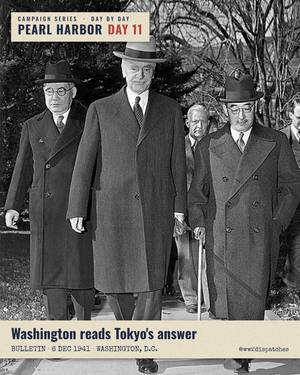
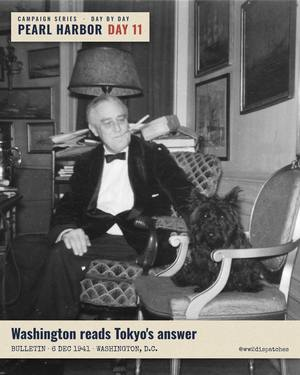
Chronicle Part 1 final; doc updated
Claude-Session: https://claude.ai/code/session_01GNhz9ryDEhyVPfJv2sWR1J

diff --git a/site/campaign-series/pearl-harbor-1941/part-01.html b/site/campaign-series/pearl-harbor-1941/part-01.html
@@ -23,7 +23,6 @@
 <link rel="preconnect" href="https://fonts.gstatic.com" crossorigin>
 <link rel="stylesheet" href="https://fonts.googleapis.com/css2?family=Oswald:wght@400;500;600;700&family=Special+Elite&family=Source+Sans+3:wght@400;600&family=Libre+Baskerville:ital,wght@0,400;0,700;1,400&display=swap">
 <link rel="stylesheet" href="/site.css?v=120f5eea">
-<meta name="robots" content="noindex">
 <script type="application/ld+json">{"@context":"https://schema.org","@graph":[{"@type":"Article","@id":"https://ww2dispatches.com/campaign-series/pearl-harbor-1941/part-01#article","headline":"Pearl Harbor, Part 1: The Fleet Slips Away","alternativeHeadline":"Campaign Series: Pearl Harbor · The Chronicle","description":"26 to 29 November 1941. Six carriers vanish into the North Pacific while Washington warns of war everywhere but Hawaii, and in Tokyo the last voices for peace are heard and set aside.","image":"https://ww2dispatches.com/campaign-series/pearl-harbor-1941/parts/part-01.jpg","datePublished":"2026-11-30T16:00:00Z","author":{"@id":"https://ww2dispatches.com/#org"},"publisher":{"@id":"https://ww2dispatches.com/#org"},"inLanguage":"en","isPartOf":{"@id":"https://ww2dispatches.com/campaign-series/pearl-harbor-1941/#series"},"url":"https://ww2dispatches.com/campaign-series/pearl-harbor-1941/part-01","about":{"@type":"Event","name":"Pearl Harbor","startDate":"1941-11-26","endDate":"1941-11-29"}},{"@type":"BreadcrumbList","itemListElement":[{"@type":"ListItem","position":1,"name":"Campaign Series","item":"https://ww2dispatches.com/campaign-series/"},{"@type":"ListItem","position":2,"name":"Pearl Harbor","item":"https://ww2dispatches.com/campaign-series/pearl-harbor-1941/"},{"@type":"ListItem","position":3,"name":"Part 1","item":"https://ww2dispatches.com/campaign-series/pearl-harbor-1941/part-01"}]}]}</script>
 </head>
 <body>
@@ -34,7 +33,7 @@
 <!--/chrome:header-->
 <main class="chapter">
   <div class="vb-top"><a class="backlink" href="/campaign-series/pearl-harbor-1941/"><svg viewBox="0 0 24 24" aria-hidden="true"><path d="M15 5l-7 7 7 7"/></svg> Pearl Harbor</a><span class="meta">The Chronicle · Part 1 of 3</span></div>
-  <figure class="ch-cover"><img src="/campaign-series/pearl-harbor-1941/parts/part-01.jpg" alt="Zuikaku at Hitokappu Bay, November 1941, before the sortie. Japanese photo, public domain (Wikimedia Commons)." style="object-position:50% 50%"></figure>
+  <figure class="ch-cover"><img src="/campaign-series/pearl-harbor-1941/parts/part-01.jpg" alt="Track of the Carrier Task Force for the Pearl Harbor attack, 26 November to 23 December 1941, drawn from Japanese records. Reports of General MacArthur, Vol. II, Part I, Plate No. 13, U.S. Army, public domain." style="object-position:50% 30%"></figure>
   <header class="ch-head">
     <p class="ch-k">Campaign Series: Pearl Harbor · The Chronicle · <b>Part 1 of 3</b></p>
     <h1>The Fleet Slips Away</h1>
@@ -44,8 +43,10 @@
   <article class="ch-paper">
     <div class="ch-open"><p>On the morning of 26 November 1941, the most powerful carrier force in the world weighed anchor in a fogbound bay at the top of Japan and steamed east, into an ocean almost no ship ever crossed. Eleven days later its aircraft would be over Oahu. In between, the men who might have stopped it read the warnings, argued over them, and looked the wrong way.</p>
 <p>This is the first of three parts on the road to Pearl Harbor. Our daily posts followed it one morning at a time, as the people living it saw it. Here we can do what they could not: lay the days side by side and see what was coming.</p>
-<figure><img src="https://cdn.jsdelivr.net/gh/ww2dispatches/ww2dispatches-cards@main/photos/campaign/ph-map-route.jpg?v=fa3dc8da" alt="The strike force&#x27;s track, 26 November to 23 December 1941, from a postwar U.S. Army map. The fleet ran east along the empty northern route, turned south on 4 December, and launched its aircraft north " width="753" height="526" loading="lazy"><figcaption>The strike force&#x27;s track, 26 November to 23 December 1941, from a postwar U.S. Army map. The fleet ran east along the empty northern route, turned south on 4 December, and launched its aircraft north of Oahu on the morning of 7 December, Hawaii time. Times on the map are Tokyo time. U.S. Army, Reports of General MacArthur (1966), public domain.</figcaption></figure></div>
+<figure><img src="https://cdn.jsdelivr.net/gh/ww2dispatches/ww2dispatches-cards@main/photos/campaign/ch-genmac-plate12-pacific.jpg?v=0074e806" alt="Japanese dispositions on the eve of war, the central Pacific, drawn after the war from Japanese records. The carrier task force comes down out of the empty north onto Oahu, where a ring of submarines," width="877" height="1007" loading="lazy"><figcaption>Japanese dispositions on the eve of war, the central Pacific, drawn after the war from Japanese records. The carrier task force comes down out of the empty north onto Oahu, where a ring of submarines, the advance force, waits off the coast. Detail of Plate No. 12, Reports of General MacArthur, Vol. II, Part I (U.S. Army, 1966), public domain.</figcaption></figure></div>
     <section class="ch-sec" id="day-01"><h2>The Sortie</h2><p class="dateline">Hitokappu Bay, Kuril Islands, 26 November 1941</p><div class="ch-slip"><details class="slip"><summary><img src="/campaign-series/pearl-harbor-1941/thumbs/day-01.jpg" alt="" width="30" height="38" loading="lazy"><span class="tt"><b>Day by Day</b> · Day 1 of 13<br>6:30 a.m. MT, 26 Nov 2026</span><svg class="chev" viewBox="0 0 24 24" aria-hidden="true"><path d="M6 9l6 6 6-6"/></svg></summary><div class="slipbody"><p class="sliph">Six carriers slip out of the Kurils</p><p>Six aircraft carriers weigh anchor in a remote bay at the top of Japan this morning. Not one of them will send a radio signal until the job is done.</p><p>Akagi, Kaga, Soryu, Hiryu, Shokaku and Zuikaku leave Hitokappu Bay in the Kuril Islands under Vice Admiral Chuichi Nagumo, with battleships, cruisers and destroyers around them. Their course is east, into the empty North Pacific.</p><p>Half a world away in Washington, Secretary of State Cordell Hull hands Japan&#x27;s envoys the American terms. Among them: Japan must pull its forces out of China and Indochina.</p><p class="sliplinks"><a href="/campaign-series/pearl-harbor-1941/day-01?from=chapter">Open the day page</a></p></div></details></div><div class="ch-body"><p>At six in the morning, Tokyo time, Vice Admiral Chuichi Nagumo&#x27;s First Air Fleet left Hitokappu Bay on Etorofu, in the Kuril Islands. Six carriers led it: Akagi, Kaga, Soryu, Hiryu, Shokaku and Zuikaku, together carrying more than 400 aircraft. Two battleships, cruisers and destroyers screened them, and a train of tankers followed, because the route ahead had no friendly port.</p>
+<p>Commander Mitsuo Fuchida, who would lead the air attack, rode in Akagi. Questioned by American officers in Tokyo after the surrender, he remembered the departure and the formation in a few plain words.</p>
+<blockquote><p><strong>In their words.</strong> Captain Mitsuo Fuchida, air group commander of Akagi, interrogated in Tokyo, 10 October 1945</p><p>&quot;We left on the 26th of November from CHISHIMA. ... The carriers were in two columns of three with 10 kilometers between ships. There were about four cruisers, two battleships, and about 17 destroyers screening outside the entire formation.&quot;</p><p class="q-src">U.S. Strategic Bombing Survey, Interrogation Nav No. 29 (Chishima is the Japanese name for the Kurils)</p></blockquote>
 <p>The route was chosen for its emptiness. The North Pacific in late autumn is cold, rough and nearly free of merchant shipping, so the chance of being seen was small. The fleet kept radio silence the whole way, while stations at home kept up their normal traffic so that American listeners would hear nothing unusual.</p>
 <p>What almost no one outside the fleet knew was that it could still be called back. Nagumo&#x27;s orders said that if the talks in Washington succeeded, he was to turn around.</p>
 <p>A day later, on the afternoon of 26 November in Washington, Secretary of State Cordell Hull handed Ambassador Kichisaburo Nomura and special envoy Saburo Kurusu the American proposal now known as the Hull note. It asked Japan to withdraw its forces from China and Indochina. In Tokyo it was read as an ultimatum. Foreign Minister Shigenori Togo, who had argued for more time, later wrote that it left him in despair. Hull himself told Secretary of War Henry Stimson the next morning that he was finished with diplomacy:</p>
@@ -54,6 +55,8 @@
 <blockquote><p><strong>Primary document.</strong> Chief of Naval Operations to the Pacific and Asiatic Fleets, 27 November 1941</p><p>&quot;This despatch is to be considered a war warning. Negotiations with Japan looking toward stabilization of conditions in the Pacific have ceased and an aggressive move by Japan is expected within the next few days.&quot;</p></blockquote>
 <p>The message went on to say where that move was expected: the Philippines, the Kra Peninsula of Thailand, or possibly Borneo. It ordered a defensive deployment. It did not mention Hawaii.</p>
 <p>Admiral Husband Kimmel read it in that light. The danger, as Washington described it, lay thousands of miles to the west. The Army&#x27;s warning to Lieutenant General Walter Short the same day said hostile action was possible at any moment, but also told him not to alarm the civilian population or disclose his intent. Short put his command on alert against sabotage and parked his aircraft close together, where they were easy to guard.</p>
+<p>Both men later defended that reading under oath. Stark told Congress he had named the places where the best intelligence said the blow would fall, and that while an attack on Hawaii was thought possible, everything pointed to the Philippines, Guam and the Kra Peninsula. Kimmel testified that no reasonable officer in his place would have read the warning as a sign of an air attack on Pearl Harbor. The same Army map shows why both could believe it. In the west, Japan&#x27;s invasion forces really were gathering against Malaya, Thailand and the Philippines, exactly where the warning said. The arrow that mattered most was the one no one in Washington had drawn.</p>
+<figure><img src="https://cdn.jsdelivr.net/gh/ww2dispatches/ww2dispatches-cards@main/photos/campaign/ch-genmac-plate12-asia.jpg?v=cb9ab5cf" alt="The same map, western half: the invasion forces poised against Malaya, Thailand, the Philippines and Borneo, the moves the war warning named. Detail of Plate No. 12, Reports of General MacArthur, Vol." width="825" height="879" loading="lazy"><figcaption>The same map, western half: the invasion forces poised against Malaya, Thailand, the Philippines and Borneo, the moves the war warning named. Detail of Plate No. 12, Reports of General MacArthur, Vol. II, Part I (U.S. Army, 1966), public domain.</figcaption></figure>
 <p>By then the strike force was two days out from the Kurils, on a course no American ship or patrol plane would cross.</p>
 <figure><img src="https://cdn.jsdelivr.net/gh/ww2dispatches/ww2dispatches-cards@main/photos/campaign/ph-02.jpg?v=f165107a" alt="Admiral Harold R. Stark, Chief of Naval Operations, who signed the war warning. U.S. Navy photo, NHHC NH 49967, public domain." width="1280" height="1600" loading="lazy"><figcaption>Admiral Harold R. Stark, Chief of Naval Operations, who signed the war warning. U.S. Navy photo, NHHC NH 49967, public domain.</figcaption></figure></div></section><section class="ch-sec" id="day-03"><h2>Under War Conditions</h2><p class="dateline">Pearl Harbor, 28 November 1941</p><div class="ch-slip"><details class="slip"><summary><img src="/campaign-series/pearl-harbor-1941/thumbs/day-03.jpg" alt="" width="30" height="38" loading="lazy"><span class="tt"><b>Day by Day</b> · Day 3 of 13<br>6:30 a.m. MT, 28 Nov 2026</span><svg class="chev" viewBox="0 0 24 24" aria-hidden="true"><path d="M6 9l6 6 6-6"/></svg></summary><div class="slipbody"><p class="sliph">Enterprise sails under war conditions</p><p>A dozen Marine fighter pilots take off from Ewa this morning thinking it is a training flight. Within hours they are aboard the carrier Enterprise, and Hawaii is falling behind them.</p><p>Admiral William Halsey&#x27;s task force sails from Pearl Harbor to carry the Wildcats of squadron VMF 211 to Wake Island, nearly 2,500 miles west. Once clear of land, the captain issues Battle Order No. 1: &quot;The Enterprise is now operating under war conditions.&quot;</p><p>It closes with one plain line: &quot;Steady nerves and stout hearts are needed now.&quot;</p><p class="sliplinks"><a href="/campaign-series/pearl-harbor-1941/day-03?from=chapter">Open the day page</a></p></div></details></div><div class="ch-body"><p>Not every commander in Hawaii read the warning as a problem for somebody else. Vice Admiral William Halsey took the carrier Enterprise to sea that morning on what the Marine pilots aboard had been told was a training flight. Their real job was to ferry the twelve Wildcat fighters of squadron VMF 211 to Wake Island, a coral atoll nearly 2,500 miles to the west.</p>
 <p>Halsey had asked Kimmel how far he could go if he met Japanese ships. Use your common sense, Kimmel told him. Halsey took that as permission to shoot first. Once the task force was clear of Oahu, the carrier&#x27;s captain, George Murray, put it in writing for every man aboard.</p>
@@ -68,7 +71,7 @@
 <p><em>Next: Part 2, 30 November to 3 December 1941.</em> A prince warns his brother the Emperor that the navy has doubts, Tokyo makes its final decision for war, and a coded signal tells the fleet to climb Mount Niitaka. Part 2 arrives Friday, 4 December.</p>
 <nav class="ch-nav" aria-label="Chapters"><a class="btn ink" href="/campaign-series/pearl-harbor-1941/">Contents</a><span class="btn shut" aria-disabled="true">Part 2 · In preparation</span></nav>
 <h3>Sources</h3>
-<ul><li>Track of the carrier task force: U.S. Army, <em>Reports of General MacArthur</em> (1966), via Wikimedia Commons.</li><li>The war warning: Chief of Naval Operations dispatch 272337, 27 November 1941, Pearl Harbor Attack hearings exhibits (ibiblio.org/pha).</li><li>Hull&#x27;s words to Stimson: Report of the Army Pearl Harbor Board (1944), quoting Stimson&#x27;s diary (ibiblio.org/pha).</li><li>Battle Order No. 1 and Halsey&#x27;s sailing: William F. Halsey and J. Bryan III, <em>Admiral Halsey&#x27;s Story</em> (1947); Pacific Wrecks, 28 November 1941.</li><li>The senior statesmen&#x27;s meeting: Pearl Harbor Attack hearings, appendix on the Japanese decision for war (ibiblio.org/pha).</li><li>The sortie from Hitokappu Bay: Pacific Wrecks, 26 November 1941.</li></ul><p class="ch-credit">Cover: Zuikaku at Hitokappu Bay, November 1941, before the sortie. Japanese photo, public domain (Wikimedia Commons).</p></div>
+<ul><li>Maps: U.S. Army, <em>Reports of General MacArthur</em>, Vol. II, Part I, <em>Japanese Operations in the Southwest Pacific Area</em> (1966), Plate No. 12 (dispositions before the outbreak of war) and Plate No. 13 (track of the carrier task force, on the cover).</li><li>Fuchida&#x27;s account: U.S. Strategic Bombing Survey, <em>Interrogations of Japanese Officials</em>, Nav No. 29, USSBS No. 113, Tokyo, 10 October 1945 (ibiblio.org/hyperwar).</li><li>Stark&#x27;s and Kimmel&#x27;s later explanations: Pearl Harbor Attack hearings, Navy narrative, &quot;The War Warning of November 27th&quot; (ibiblio.org/pha); Kimmel&#x27;s testimony to the Joint Committee, January 1946.</li><li>The war warning: Chief of Naval Operations dispatch 272337, 27 November 1941, Pearl Harbor Attack hearings exhibits (ibiblio.org/pha).</li><li>Hull&#x27;s words to Stimson: Report of the Army Pearl Harbor Board (1944), quoting Stimson&#x27;s diary (ibiblio.org/pha).</li><li>Battle Order No. 1 and Halsey&#x27;s sailing: William F. Halsey and J. Bryan III, <em>Admiral Halsey&#x27;s Story</em> (1947); Pacific Wrecks, 28 November 1941.</li><li>The senior statesmen&#x27;s meeting: Pearl Harbor Attack hearings, appendix on the Japanese decision for war (ibiblio.org/pha).</li><li>The sortie from Hitokappu Bay: Pacific Wrecks, 26 November 1941.</li></ul><p class="ch-credit">Cover: Track of the Carrier Task Force for the Pearl Harbor attack, 26 November to 23 December 1941, drawn from Japanese records. Reports of General MacArthur, Vol. II, Part I, Plate No. 13, U.S. Army, public domain.</p></div>
   </article>
   <div class="subscribe book-sub">
     <h2>Get each chapter by email</h2>

diff --git a/site/campaign-series/pearl-harbor-1941/day-11.html b/site/campaign-series/pearl-harbor-1941/day-11.html
@@ -16,14 +16,14 @@
 <meta property="og:title" content="Campaign Series: Pearl Harbor · Day by Day, Day 11: Washington reads Tokyo&#x27;s answer">
 <meta property="og:description" content="At about 9:30 tonight, a Navy officer hands the President a locked pouch. Inside are thirteen decoded parts of Japan&#x27;s fourteen part reply to the American terms.">
 <meta property="og:url" content="https://ww2dispatches.com/campaign-series/pearl-harbor-1941/day-11">
-<meta property="og:image" content="https://cdn.jsdelivr.net/gh/ww2dispatches/ww2dispatches-cards@main/campaign-series/pearl-harbor-1941/images/day-11-instagram.jpg?v=eaea0ca1">
+<meta property="og:image" content="https://cdn.jsdelivr.net/gh/ww2dispatches/ww2dispatches-cards@main/campaign-series/pearl-harbor-1941/images/day-11-instagram.jpg?v=0b748236">
 <meta name="twitter:card" content="summary_large_image">
 <meta name="twitter:site" content="@ww2dispatches">
 <link rel="preconnect" href="https://fonts.googleapis.com">
 <link rel="preconnect" href="https://fonts.gstatic.com" crossorigin>
 <link rel="stylesheet" href="https://fonts.googleapis.com/css2?family=Oswald:wght@400;500;600;700&family=Special+Elite&family=Source+Sans+3:wght@400;600&family=Libre+Baskerville:ital,wght@0,400;0,700;1,400&display=swap">
 <link rel="stylesheet" href="/site.css?v=120f5eea">
-<script type="application/ld+json">{"@context":"https://schema.org","@graph":[{"@type":"Article","@id":"https://ww2dispatches.com/campaign-series/pearl-harbor-1941/day-11#article","headline":"Pearl Harbor, Day 11: Washington reads Tokyo's answer","alternativeHeadline":"Campaign Series: Pearl Harbor · Day by Day","description":"At about 9:30 tonight, a Navy officer hands the President a locked pouch. Inside are thirteen decoded parts of Japan's fourteen part reply to the American terms.","image":"https://cdn.jsdelivr.net/gh/ww2dispatches/ww2dispatches-cards@main/campaign-series/pearl-harbor-1941/images/day-11-instagram.jpg?v=eaea0ca1","datePublished":"2026-12-06T13:30:00Z","author":{"@id":"https://ww2dispatches.com/#org"},"publisher":{"@id":"https://ww2dispatches.com/#org"},"inLanguage":"en","isPartOf":{"@id":"https://ww2dispatches.com/campaign-series/pearl-harbor-1941/#series"},"url":"https://ww2dispatches.com/campaign-series/pearl-harbor-1941/day-11","about":{"@type":"Event","name":"Washington reads Tokyo's answer","startDate":"1941-12-06","location":{"@type":"Place","name":"Washington, D.C."}}},{"@type":"BreadcrumbList","itemListElement":[{"@type":"ListItem","position":1,"name":"Campaign Series","item":"https://ww2dispatches.com/campaign-series/"},{"@type":"ListItem","position":2,"name":"Pearl Harbor","item":"https://ww2dispatches.com/campaign-series/pearl-harbor-1941/"},{"@type":"ListItem","position":3,"name":"Day 11","item":"https://ww2dispatches.com/campaign-series/pearl-harbor-1941/day-11"}]}]}</script>
+<script type="application/ld+json">{"@context":"https://schema.org","@graph":[{"@type":"Article","@id":"https://ww2dispatches.com/campaign-series/pearl-harbor-1941/day-11#article","headline":"Pearl Harbor, Day 11: Washington reads Tokyo's answer","alternativeHeadline":"Campaign Series: Pearl Harbor · Day by Day","description":"At about 9:30 tonight, a Navy officer hands the President a locked pouch. Inside are thirteen decoded parts of Japan's fourteen part reply to the American terms.","image":"https://cdn.jsdelivr.net/gh/ww2dispatches/ww2dispatches-cards@main/campaign-series/pearl-harbor-1941/images/day-11-instagram.jpg?v=0b748236","datePublished":"2026-12-06T13:30:00Z","author":{"@id":"https://ww2dispatches.com/#org"},"publisher":{"@id":"https://ww2dispatches.com/#org"},"inLanguage":"en","isPartOf":{"@id":"https://ww2dispatches.com/campaign-series/pearl-harbor-1941/#series"},"url":"https://ww2dispatches.com/campaign-series/pearl-harbor-1941/day-11","about":{"@type":"Event","name":"Washington reads Tokyo's answer","startDate":"1941-12-06","location":{"@type":"Place","name":"Washington, D.C."}}},{"@type":"BreadcrumbList","itemListElement":[{"@type":"ListItem","position":1,"name":"Campaign Series","item":"https://ww2dispatches.com/campaign-series/"},{"@type":"ListItem","position":2,"name":"Pearl Harbor","item":"https://ww2dispatches.com/campaign-series/pearl-harbor-1941/"},{"@type":"ListItem","position":3,"name":"Day 11","item":"https://ww2dispatches.com/campaign-series/pearl-harbor-1941/day-11"}]}]}</script>
 </head>
 <body>
 <!-- Built by renderer/site_pages.py; do not edit by hand. -->
@@ -34,12 +34,12 @@
 <main class="dayview">
   <div class="daytop"><a class="backlink" href="/campaign-series/pearl-harbor-1941/"><svg viewBox="0 0 24 24" aria-hidden="true"><path d="M15 5l-7 7 7 7"/></svg> Pearl Harbor</a><span class="dayof">Day by Day · Day 11 of 13</span></div>
   <article class="dayart">
-    <figure class="daypic"><img src="https://cdn.jsdelivr.net/gh/ww2dispatches/ww2dispatches-cards@main/campaign-series/pearl-harbor-1941/images/day-11-instagram.jpg?v=eaea0ca1" alt="WW2 Dispatches Campaign Series, Pearl Harbor, Day 11. Secretary of State Cordell Hull with Japan&#x27;s envoys Kichisaburo Nomura and Saburo Kurusu, 17 November 1941. Public domain." width="1080" height="1350"></figure>
+    <figure class="daypic"><img src="https://cdn.jsdelivr.net/gh/ww2dispatches/ww2dispatches-cards@main/campaign-series/pearl-harbor-1941/images/day-11-instagram.jpg?v=0b748236" alt="WW2 Dispatches Campaign Series, Pearl Harbor, Day 11. President Roosevelt in his White House study, in evening dress, 20 December 1941. Franklin D. Roosevelt Library (NPx 59-109), National Archives. Public domain." width="1080" height="1350"></figure>
     <div class="daytxt">
       <p class="dayline"><span class="swatch" style="background:#B8862B" title="Statecraft"></span><span class="sr">Statecraft. </span>Saturday, 6 December 1941 · Washington, D.C.</p>
       <h1>Washington reads Tokyo&#x27;s answer</h1>
       <div class="daycap"><p>At about 9:30 tonight, a Navy officer hands the President a locked pouch. Inside are thirteen decoded parts of Japan&#x27;s fourteen part reply to the American terms.</p><p>Franklin Roosevelt reads for about ten minutes and passes the pages to Harry Hopkins. Then he says, in substance: &quot;This means war.&quot;</p><p>Half an hour earlier, his personal appeal to Emperor Hirohito went out by cable, asking him to give thought to &quot;ways of dispelling the dark clouds.&quot; The fourteenth part has not arrived.</p></div>
-      <p class="daysrc">Photo: Secretary of State Cordell Hull with Japan&#x27;s envoys Kichisaburo Nomura and Saburo Kurusu, 17 November 1941. Public domain.<br>Sources: <a href="https://mises.org/online-book/pearl-harbor/chapter-13" target="_blank" rel="noopener">mises.org</a>, <a href="https://www.ibiblio.org/pha/paw/264.html" target="_blank" rel="noopener">ibiblio.org</a>, <a href="https://history.state.gov/historicaldocuments/frus1931-41v02/d418" target="_blank" rel="noopener">history.state.gov</a></p>
+      <p class="daysrc">Photo: President Roosevelt in his White House study, in evening dress, 20 December 1941. Franklin D. Roosevelt Library (NPx 59-109), National Archives. Public domain.<br>Sources: <a href="https://mises.org/online-book/pearl-harbor/chapter-13" target="_blank" rel="noopener">mises.org</a>, <a href="https://www.ibiblio.org/pha/paw/264.html" target="_blank" rel="noopener">ibiblio.org</a>, <a href="https://history.state.gov/historicaldocuments/frus1931-41v02/d418" target="_blank" rel="noopener">history.state.gov</a></p>
     </div>
   </article>
   <nav class="daynav" aria-label="Days">

diff --git a/site/campaign-series/pearl-harbor-1941/index.html b/site/campaign-series/pearl-harbor-1941/index.html
@@ -23,7 +23,7 @@
 <link rel="preconnect" href="https://fonts.gstatic.com" crossorigin>
 <link rel="stylesheet" href="https://fonts.googleapis.com/css2?family=Oswald:wght@400;500;600;700&family=Special+Elite&family=Source+Sans+3:wght@400;600&family=Libre+Baskerville:ital,wght@0,400;0,700;1,400&display=swap">
 <link rel="stylesheet" href="/site.css?v=120f5eea">
-<script type="application/ld+json">{"@context":"https://schema.org","@graph":[{"@type":"CreativeWorkSeries","@id":"https://ww2dispatches.com/campaign-series/pearl-harbor-1941/#series","name":"Campaign Series: Pearl Harbor","url":"https://ww2dispatches.com/campaign-series/pearl-harbor-1941/","description":"Twelve days to war, and the morning after, told as they happened. From the morning Japan's carriers slip out of the Kurils to the morning after the attack, when Roosevelt asks Congress for war.","image":"https://ww2dispatches.com/campaign-series/covers/pearl-harbor-1941.jpg","inLanguage":"en","publisher":{"@id":"https://ww2dispatches.com/#org"},"isPartOf":{"@id":"https://ww2dispatches.com/#site"},"about":{"@type":"Event","name":"Pearl Harbor","startDate":"1941-11-26","endDate":"1941-12-08"},"hasPart":[]},{"@type":"BreadcrumbList","itemListElement":[{"@type":"ListItem","position":1,"name":"Campaign Series","item":"https://ww2dispatches.com/campaign-series/"},{"@type":"ListItem","position":2,"name":"Pearl Harbor","item":"https://ww2dispatches.com/campaign-series/pearl-harbor-1941/"}]}]}</script>
+<script type="application/ld+json">{"@context":"https://schema.org","@graph":[{"@type":"CreativeWorkSeries","@id":"https://ww2dispatches.com/campaign-series/pearl-harbor-1941/#series","name":"Campaign Series: Pearl Harbor","url":"https://ww2dispatches.com/campaign-series/pearl-harbor-1941/","description":"Twelve days to war, and the morning after, told as they happened. From the morning Japan's carriers slip out of the Kurils to the morning after the attack, when Roosevelt asks Congress for war.","image":"https://ww2dispatches.com/campaign-series/covers/pearl-harbor-1941.jpg","inLanguage":"en","publisher":{"@id":"https://ww2dispatches.com/#org"},"isPartOf":{"@id":"https://ww2dispatches.com/#site"},"about":{"@type":"Event","name":"Pearl Harbor","startDate":"1941-11-26","endDate":"1941-12-08"},"hasPart":[{"@type":"Article","name":"Pearl Harbor · The Chronicle, Part 1: The Fleet Slips Away","url":"https://ww2dispatches.com/campaign-series/pearl-harbor-1941/part-01"}]},{"@type":"BreadcrumbList","itemListElement":[{"@type":"ListItem","position":1,"name":"Campaign Series","item":"https://ww2dispatches.com/campaign-series/"},{"@type":"ListItem","position":2,"name":"Pearl Harbor","item":"https://ww2dispatches.com/campaign-series/pearl-harbor-1941/"}]}]}</script>
 </head>
 <body>
 <!-- Built by renderer/site_pages.py; do not edit by hand. -->
@@ -47,14 +47,14 @@
       <p class="vb-intro vb-names"><b>The Chronicle</b> tells it in full, part by part, with the maps, orders and first hand accounts behind every day. <b>Day by Day</b> is the short dispatch that ran each morning at 6:30, and each one sits beside the day it belongs to.</p>
       <h2>Contents</h2>
       <article class="pe">
-      <div data-release="2026-11-30T16:00:00Z" data-draft=""><a class="pe-pic" href="/campaign-series/pearl-harbor-1941/part-01"><img src="/campaign-series/pearl-harbor-1941/parts/part-01.jpg" alt="" loading="lazy" style="object-position:50% 50%"></a></div>
-      <div data-draft-until="2026-11-30T16:00:00Z"><span class="pe-pic pe-seal" aria-hidden="true"><span>PART 1 ARRIVES MON 30 NOV</span></span></div>
+      <div data-release="2026-11-30T16:00:00Z"><a class="pe-pic" href="/campaign-series/pearl-harbor-1941/part-01"><img src="/campaign-series/pearl-harbor-1941/parts/part-01.jpg" alt="" loading="lazy" style="object-position:50% 30%"></a></div>
+      <div data-until="2026-11-30T16:00:00Z"><span class="pe-pic pe-seal" aria-hidden="true"><span>PART 1 ARRIVES MON 30 NOV</span></span></div>
       <div class="pe-txt">
         <p class="pe-k">The Chronicle · Part 1 of 3</p>
-        <h3><a href="/campaign-series/pearl-harbor-1941/part-01" data-release="2026-11-30T16:00:00Z" data-draft="">The Fleet Slips Away</a><span data-draft-until="2026-11-30T16:00:00Z">The Fleet Slips Away</span></h3>
+        <h3><a href="/campaign-series/pearl-harbor-1941/part-01" data-release="2026-11-30T16:00:00Z">The Fleet Slips Away</a><span data-until="2026-11-30T16:00:00Z">The Fleet Slips Away</span></h3>
         <p class="pe-d">26 to 29 November 1941</p>
-        <div class="pe-live" data-release="2026-11-30T16:00:00Z" data-draft=""><p class="pe-syn">Six carriers vanish into the North Pacific while Washington warns of war everywhere but Hawaii.</p><a class="btn ink" href="/campaign-series/pearl-harbor-1941/part-01">Read Part 1</a></div>
-        <p class="pe-arr" data-draft-until="2026-11-30T16:00:00Z">This part arrives Mon 30 Nov, 9 a.m. MT. Its days open below as each one posts.</p>
+        <div class="pe-live" data-release="2026-11-30T16:00:00Z"><p class="pe-syn">Six carriers vanish into the North Pacific while Washington warns of war everywhere but Hawaii.</p><a class="btn ink" href="/campaign-series/pearl-harbor-1941/part-01">Read Part 1</a></div>
+        <p class="pe-arr" data-until="2026-11-30T16:00:00Z">This part arrives Mon 30 Nov, 9 a.m. MT. Its days open below as each one posts.</p>
         <p class="pe-dk">Day by Day, Days 1 to 4</p>
         <div class="stamps"><a class="stamp" href="/campaign-series/pearl-harbor-1941/day-01" data-release="2026-11-26T13:30:00Z"><b>Day 1</b>26 Nov</a><span class="stamp shut" data-until="2026-11-26T13:30:00Z"><b>Day 1</b>26 Nov<span class="sr">, arrives 26 Nov</span></span><a class="stamp" href="/campaign-series/pearl-harbor-1941/day-02" data-release="2026-11-27T13:30:00Z"><b>Day 2</b>27 Nov</a><span class="stamp shut" data-until="2026-11-27T13:30:00Z"><b>Day 2</b>27 Nov<span class="sr">, arrives 27 Nov</span></span><a class="stamp" href="/campaign-series/pearl-harbor-1941/day-03" data-release="2026-11-28T13:30:00Z"><b>Day 3</b>28 Nov</a><span class="stamp shut" data-until="2026-11-28T13:30:00Z"><b>Day 3</b>28 Nov<span class="sr">, arrives 28 Nov</span></span><a class="stamp" href="/campaign-series/pearl-harbor-1941/day-04" data-release="2026-11-29T13:30:00Z"><b>Day 4</b>29 Nov</a><span class="stamp shut" data-until="2026-11-29T13:30:00Z"><b>Day 4</b>29 Nov<span class="sr">, arrives 29 Nov</span></span></div>
       </div>

diff --git a/site/campaign-series/pearl-harbor-1941/day-01.html b/site/campaign-series/pearl-harbor-1941/day-01.html
@@ -34,7 +34,7 @@
 <main class="dayview">
   <div class="daytop"><a class="backlink" href="/campaign-series/pearl-harbor-1941/"><svg viewBox="0 0 24 24" aria-hidden="true"><path d="M15 5l-7 7 7 7"/></svg> Pearl Harbor</a><span class="dayof">Day by Day · Day 1 of 13</span></div>
   <article class="dayart">
-    <div class="daybm"><a class="bookmark" href="/campaign-series/pearl-harbor-1941/part-01#day-01" data-release="2026-11-30T16:00:00Z" data-draft=""><span class="bm-t"><span class="bm-k">This day in The Chronicle</span><span class="bm-w">Part 1, The Fleet Slips Away: The Sortie</span></span><span class="bm-go">Read it in full</span></a><p class="bookmark shut" data-draft-until="2026-11-30T16:00:00Z"><span class="bm-t"><span class="bm-k">This day in The Chronicle</span><span class="bm-w">Part 1 arrives Mon 30 Nov, 9 a.m. MT</span></span></p></div><figure class="daypic"><img src="https://cdn.jsdelivr.net/gh/ww2dispatches/ww2dispatches-cards@main/campaign-series/pearl-harbor-1941/images/day-01-instagram.jpg?v=25059d1a" alt="WW2 Dispatches Campaign Series, Pearl Harbor, Day 1. Zuikaku at Hitokappu Bay, November 1941, before the sortie. Japanese photo, public domain (Wikimedia Commons)." width="1080" height="1350"></figure>
+    <div class="daybm"><a class="bookmark" href="/campaign-series/pearl-harbor-1941/part-01#day-01" data-release="2026-11-30T16:00:00Z"><span class="bm-t"><span class="bm-k">This day in The Chronicle</span><span class="bm-w">Part 1, The Fleet Slips Away: The Sortie</span></span><span class="bm-go">Read it in full</span></a><p class="bookmark shut" data-until="2026-11-30T16:00:00Z"><span class="bm-t"><span class="bm-k">This day in The Chronicle</span><span class="bm-w">Part 1 arrives Mon 30 Nov, 9 a.m. MT</span></span></p></div><figure class="daypic"><img src="https://cdn.jsdelivr.net/gh/ww2dispatches/ww2dispatches-cards@main/campaign-series/pearl-harbor-1941/images/day-01-instagram.jpg?v=25059d1a" alt="WW2 Dispatches Campaign Series, Pearl Harbor, Day 1. Zuikaku at Hitokappu Bay, November 1941, before the sortie. Japanese photo, public domain (Wikimedia Commons)." width="1080" height="1350"></figure>
     <div class="daytxt">
       <p class="dayline"><span class="swatch" style="background:#B04A3E" title="Battle Lines"></span><span class="sr">Battle Lines. </span>Wednesday, 26 November 1941 · Hitokappu Bay, Kuril Islands</p>
       <h1>Six carriers slip out of the Kurils</h1>

diff --git a/site/campaign-series/pearl-harbor-1941/day-04.html b/site/campaign-series/pearl-harbor-1941/day-04.html
@@ -34,7 +34,7 @@
 <main class="dayview">
   <div class="daytop"><a class="backlink" href="/campaign-series/pearl-harbor-1941/"><svg viewBox="0 0 24 24" aria-hidden="true"><path d="M15 5l-7 7 7 7"/></svg> Pearl Harbor</a><span class="dayof">Day by Day · Day 4 of 13</span></div>
   <article class="dayart">
-    <div class="daybm"><a class="bookmark" href="/campaign-series/pearl-harbor-1941/part-01#day-04" data-release="2026-11-30T16:00:00Z" data-draft=""><span class="bm-t"><span class="bm-k">This day in The Chronicle</span><span class="bm-w">Part 1, The Fleet Slips Away: The Last Voices</span></span><span class="bm-go">Read it in full</span></a><p class="bookmark shut" data-draft-until="2026-11-30T16:00:00Z"><span class="bm-t"><span class="bm-k">This day in The Chronicle</span><span class="bm-w">Part 1 arrives Mon 30 Nov, 9 a.m. MT</span></span></p></div><figure class="daypic"><img src="https://cdn.jsdelivr.net/gh/ww2dispatches/ww2dispatches-cards@main/campaign-series/pearl-harbor-1941/images/day-04-instagram.jpg?v=12375e32" alt="WW2 Dispatches Campaign Series, Pearl Harbor, Day 4. Adm. Keisuke Okada, former prime minister, portrait published 1934 to 1935. Public domain (Wikimedia Commons)." width="1080" height="1350"></figure>
+    <div class="daybm"><a class="bookmark" href="/campaign-series/pearl-harbor-1941/part-01#day-04" data-release="2026-11-30T16:00:00Z"><span class="bm-t"><span class="bm-k">This day in The Chronicle</span><span class="bm-w">Part 1, The Fleet Slips Away: The Last Voices</span></span><span class="bm-go">Read it in full</span></a><p class="bookmark shut" data-until="2026-11-30T16:00:00Z"><span class="bm-t"><span class="bm-k">This day in The Chronicle</span><span class="bm-w">Part 1 arrives Mon 30 Nov, 9 a.m. MT</span></span></p></div><figure class="daypic"><img src="https://cdn.jsdelivr.net/gh/ww2dispatches/ww2dispatches-cards@main/campaign-series/pearl-harbor-1941/images/day-04-instagram.jpg?v=12375e32" alt="WW2 Dispatches Campaign Series, Pearl Harbor, Day 4. Adm. Keisuke Okada, former prime minister, portrait published 1934 to 1935. Public domain (Wikimedia Commons)." width="1080" height="1350"></figure>
     <div class="daytxt">
       <p class="dayline"><span class="swatch" style="background:#B8862B" title="Statecraft"></span><span class="sr">Statecraft. </span>Saturday, 29 November 1941 · Tokyo, Japan</p>
       <h1>Old prime ministers voice doubts</h1>

diff --git a/site/campaign-series/pearl-harbor-1941/day-03.html b/site/campaign-series/pearl-harbor-1941/day-03.html
@@ -34,7 +34,7 @@
 <main class="dayview">
   <div class="daytop"><a class="backlink" href="/campaign-series/pearl-harbor-1941/"><svg viewBox="0 0 24 24" aria-hidden="true"><path d="M15 5l-7 7 7 7"/></svg> Pearl Harbor</a><span class="dayof">Day by Day · Day 3 of 13</span></div>
   <article class="dayart">
-    <div class="daybm"><a class="bookmark" href="/campaign-series/pearl-harbor-1941/part-01#day-03" data-release="2026-11-30T16:00:00Z" data-draft=""><span class="bm-t"><span class="bm-k">This day in The Chronicle</span><span class="bm-w">Part 1, The Fleet Slips Away: Under War Conditions</span></span><span class="bm-go">Read it in full</span></a><p class="bookmark shut" data-draft-until="2026-11-30T16:00:00Z"><span class="bm-t"><span class="bm-k">This day in The Chronicle</span><span class="bm-w">Part 1 arrives Mon 30 Nov, 9 a.m. MT</span></span></p></div><figure class="daypic"><img src="https://cdn.jsdelivr.net/gh/ww2dispatches/ww2dispatches-cards@main/campaign-series/pearl-harbor-1941/images/day-03-instagram.jpg?v=d25fcdcc" alt="WW2 Dispatches Campaign Series, Pearl Harbor, Day 3. USS Enterprise (CV 6) underway in the Pacific, June 1941. U.S. Navy photo, public domain." width="1080" height="1350"></figure>
+    <div class="daybm"><a class="bookmark" href="/campaign-series/pearl-harbor-1941/part-01#day-03" data-release="2026-11-30T16:00:00Z"><span class="bm-t"><span class="bm-k">This day in The Chronicle</span><span class="bm-w">Part 1, The Fleet Slips Away: Under War Conditions</span></span><span class="bm-go">Read it in full</span></a><p class="bookmark shut" data-until="2026-11-30T16:00:00Z"><span class="bm-t"><span class="bm-k">This day in The Chronicle</span><span class="bm-w">Part 1 arrives Mon 30 Nov, 9 a.m. MT</span></span></p></div><figure class="daypic"><img src="https://cdn.jsdelivr.net/gh/ww2dispatches/ww2dispatches-cards@main/campaign-series/pearl-harbor-1941/images/day-03-instagram.jpg?v=d25fcdcc" alt="WW2 Dispatches Campaign Series, Pearl Harbor, Day 3. USS Enterprise (CV 6) underway in the Pacific, June 1941. U.S. Navy photo, public domain." width="1080" height="1350"></figure>
     <div class="daytxt">
       <p class="dayline"><span class="swatch" style="background:#B04A3E" title="Battle Lines"></span><span class="sr">Battle Lines. </span>Friday, 28 November 1941 · Pearl Harbor, Hawaii</p>
       <h1>Enterprise sails under war conditions</h1>

diff --git a/site/campaign-series/pearl-harbor-1941/day-02.html b/site/campaign-series/pearl-harbor-1941/day-02.html
@@ -34,7 +34,7 @@
 <main class="dayview">
   <div class="daytop"><a class="backlink" href="/campaign-series/pearl-harbor-1941/"><svg viewBox="0 0 24 24" aria-hidden="true"><path d="M15 5l-7 7 7 7"/></svg> Pearl Harbor</a><span class="dayof">Day by Day · Day 2 of 13</span></div>
   <article class="dayart">
-    <div class="daybm"><a class="bookmark" href="/campaign-series/pearl-harbor-1941/part-01#day-02" data-release="2026-11-30T16:00:00Z" data-draft=""><span class="bm-t"><span class="bm-k">This day in The Chronicle</span><span class="bm-w">Part 1, The Fleet Slips Away: A War Warning</span></span><span class="bm-go">Read it in full</span></a><p class="bookmark shut" data-draft-until="2026-11-30T16:00:00Z"><span class="bm-t"><span class="bm-k">This day in The Chronicle</span><span class="bm-w">Part 1 arrives Mon 30 Nov, 9 a.m. MT</span></span></p></div><figure class="daypic"><img src="https://cdn.jsdelivr.net/gh/ww2dispatches/ww2dispatches-cards@main/campaign-series/pearl-harbor-1941/images/day-02-instagram.jpg?v=2923fda6" alt="WW2 Dispatches Campaign Series, Pearl Harbor, Day 2. Adm. Harold R. Stark, Chief of Naval Operations, April 1940. U.S. Navy, NHHC NH 49967, public domain." width="1080" height="1350"></figure>
+    <div class="daybm"><a class="bookmark" href="/campaign-series/pearl-harbor-1941/part-01#day-02" data-release="2026-11-30T16:00:00Z"><span class="bm-t"><span class="bm-k">This day in The Chronicle</span><span class="bm-w">Part 1, The Fleet Slips Away: A War Warning</span></span><span class="bm-go">Read it in full</span></a><p class="bookmark shut" data-until="2026-11-30T16:00:00Z"><span class="bm-t"><span class="bm-k">This day in The Chronicle</span><span class="bm-w">Part 1 arrives Mon 30 Nov, 9 a.m. MT</span></span></p></div><figure class="daypic"><img src="https://cdn.jsdelivr.net/gh/ww2dispatches/ww2dispatches-cards@main/campaign-series/pearl-harbor-1941/images/day-02-instagram.jpg?v=2923fda6" alt="WW2 Dispatches Campaign Series, Pearl Harbor, Day 2. Adm. Harold R. Stark, Chief of Naval Operations, April 1940. U.S. Navy, NHHC NH 49967, public domain." width="1080" height="1350"></figure>
     <div class="daytxt">
       <p class="dayline"><span class="swatch" style="background:#B8862B" title="Statecraft"></span><span class="sr">Statecraft. </span>Thursday, 27 November 1941 · Washington, D.C.</p>
       <h1>Washington sends a war warning</h1>

diff --git a/docs/WW2 Dispatches Campaign Series.md b/docs/WW2 Dispatches Campaign Series.md
@@ -89,7 +89,7 @@ Substack sets one theme for the whole publication (night background, brass gold,
 **Pearl Harbor volume (3 parts)**
 | Part | Days | Title | Goes live |
 |---|---|---|---|
-| 1 | 1 to 4 (26 to 29 Nov) | The Fleet Slips Away | Mon 30 Nov, 9 a.m. (mock up written 14 Nov) |
+| 1 | 1 to 4 (26 to 29 Nov) | The Fleet Slips Away | Mon 30 Nov, 9 a.m. (final 21 Nov; still to schedule in Substack) |
 | 2 | 5 to 8 (30 Nov to 3 Dec) | to write | Fri 4 Dec, 9 a.m. |
 | 3 | 9 to 12 and the Epilogue (4 to 8 Dec) | to write; tells the whole of 7 December in depth (the launch, Opana, both waves, the Arizona, the note delivered after the bombs, the nation hearing the news) and the speech | **Wed 9 Dec, 9 a.m.** (moved from Tue 8 Dec so it follows the Epilogue) |
 
@@ -160,7 +160,7 @@ Anchor days, each to be verified in the sitting (two sources); the rest are fill
 Until that change ships, the shelf works as built: every series is a volume on the Campaign Shelf at ww2dispatches.com/campaign-series (Site Revamp doc). `renderer/site_pages.py` builds the volume page and one page per day from the day records, and the server shows a day only once its post time has passed. **In each build sitting:** add the volume to `campaign-series/shelf.json` (its `id` must match the folder name, so the Bulge is `bulge-1944`; set the cover photo, cloth color, intro, and blurb), then run `python3 renderer/series_log.py` before the commit, which refreshes the pages with the logs. A volume turns live on the shelf as soon as its folder holds day records.
 
 ## Open
-* **Pearl Harbor Part 1 is still `"mockup"`:** set it to `"final"` before Mon 30 Nov, 9 a.m., or the site keeps it sealed after Substack publishes it. Same for Parts 2 and 3 before 4 and 8 Dec.
+* **Pearl Harbor Part 1 is final** (approved by Brian 21 Nov; opens on a detail of Plate 12, Fuchida's 1945 account added). Parts 2 and 3 must be set to `"final"` before 4 and 9 Dec.
 * Pearl Harbor volume: all three covers set 21 Nov (Part 1 the Plate 13 fleet track map); Brian approves the Part 1 mock up; then finish Part 1 and write Parts 2 and 3; make the Campaign Series section on Substack with its banner and schedule all three (Part 1 by Mon 30 Nov, 9 a.m.).
 * Website: Build and Fixes chat: rebuild the Campaign Shelf around the Substack parts (above), ideally before Part 1 goes live on Mon 30 Nov; Brian picks the daily posts option (a to h) there.
 * The Bulge build sitting (Thanksgiving weekend): the 30 days of posts and the split into 4 parts; each part then written in its own short sitting about a week ahead.
@@ -193,3 +193,4 @@ Until that change ships, the shelf works as built: every series is a volume on t
 * 20 Nov 2026 (Map Room build chat, evening): Map Room handoff in Open rewritten for format 2: a series roster, day blocks that record only what changed, every position and line from that day's situation map, `check_series.py` in place of `check_record.py`, and the Map Room chat's fact check after the sitting.
 * 21 Nov 2026: Pearl Harbor Part 1 cover set to the fleet track map, Plate No. 13 of the Reports of General MacArthur, in color (Brian); the cover renderer takes an optional `color` for maps.
 * 21 Nov 2026 (later): Pearl Harbor Day 11 photo swapped (Brian): the Hull, Nomura, and Kurusu walking photo turned out to be an Underwood Archives press print (red tier), so the post now shows Roosevelt in evening dress in his White House study, 20 December 1941 (FDR Library, public domain; a memo was tried first and set aside as too plain). Re-rendered and updated in Buffer on all four platforms (images pinned to commit 669024f); board copies refreshed.
+* 21 Nov 2026 (later): Pearl Harbor Chronicle Part 1 finished and marked final (Brian): opens on a single page detail of Plate 12 (the strike force on Hawaii), with the western half (the invasion forces the war warning named) in the war warning section; Fuchida's USSBS interrogation added as the first hand account; Stark's and Kimmel's later explanations added.
